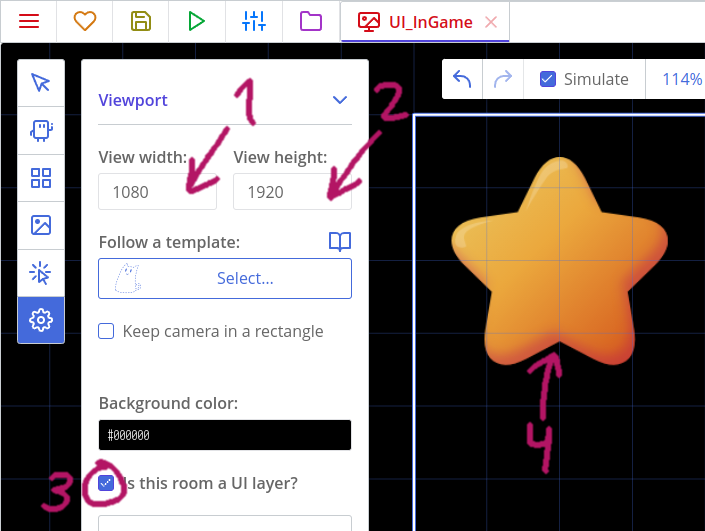
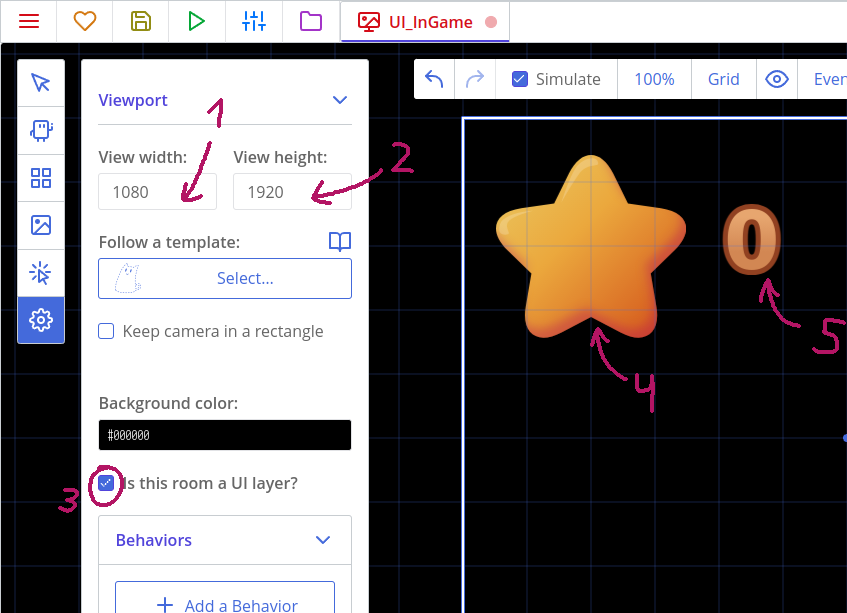
Address PR feedback

diff --git a/docs/tutorials/making-games-jettycat.md b/docs/tutorials/making-games-jettycat.md
@@ -640,35 +640,19 @@ Then, switch to the "Stroke" tab, and activate it. Set stroke's color as dark br
 
 ![Setting stroke's properties in ct.js text style](./../images/tutorials/tutJettyCat_26.png)
 
-We can save the style now. After that, we will need a new template that will display a star icon and a score counter.
+We can save the style now. After that, we will need two new templates that will display a star icon and a score counter.
 
-Create a new template and call it `StarCounter`. As its texture, we will reuse our `Star` texture. In its Creation event code, put the following snippet:
+Create a new template and call it `StarCounter`. As its texture, we will reuse our `Star` texture. 
 
-::: code-tabs#tutorial
-@tab JavaScript
-```js
-this.label = new PIXI.Text('0', styles.get('Orange'));
-this.label.x = 130;
-this.label.y = -60;
-this.addChild(this.label);
-```
-@tab CoffeeScript
-```coffee
-style = styles.get 'Orange'
-@label = new PIXI.Text '0', style
-@label.x = 130
-@label.y = -60
-@addChild @label
-```
-:::
+Now make another template called `StarCounterLabel`. This will show the score value next to the StarCounter copy. Now switch it from being an animated sprite to a text.
 
-This code is sorcery made in Pixi.js' API. Pixi.js is the graphics framework ct.js is built upon, and when we need to display something beyond copies and backgrounds, we will use their API. Here, `new PIXI.Text` creates a new text label. Its first argument is a string that will be displayed: we have 0 score points at room start, and thus will write `'0'` as an initial text. The second argument is a text style — we load it from our created style `'Orange'`.
+![Switch StarCounterLabel to be a text](./../images/tutorials/tutJettyCat_16_2.png)
 
-By writing `this.label = new Pixi.Text(…)`, we instantly remember the reference to the created label and save it as a copy's parameter `this.label`. We then position it by writing `this.label.x = 130;` and `this.label.y = -60`, but we are doing it relative to the copy. The copy `StarCounter` itself is more a container we use to display our text, though it still displays an icon. The line `this.addChild(this.label)` finally puts the created text label into the copy.
+Once you switch it to a text you can click on the ghostly cat icon and now you can choose between your styles. Select the Orange style you made.
 
-We need to update the text label at each frame. In the Frame end event, put the line `this.label.text = rooms.current.score;`.
+We need to update the text label at each frame. In the Frame end event, put the line `this.text = rooms.current.score;`. `this.text` is a property that lets us edit the label of a text copy easily, now that we switched it to a Text. You can also set the default text of this template in the right sidebar so it doesn't say `<Empty>` when we put it in the room.
 
-Finally, let's create a room for this counter and put this room inside the main one. Create a new room, and call it `UI_InGame`. Then, set its view size to 1080x1920 to match the main room's viewport, mark it as a UI layer, and put a counter's copy in the top-left corner:
+Finally, let's create a room for this counter and label and put this room inside the main one. Create a new room, and call it `UI_InGame`. Then, set its view size to 1080x1920 to match the main room's viewport, mark it as a UI layer, and put a counter's copy and label in the top-left corner:
 
 ![Creating a UI layer in ct.js](./../images/tutorials/tutJettyCat_27.png)
 
@@ -804,7 +788,7 @@ The final step is making a score screen that will be displayed after a player lo
 
 Create a template with a texture `OhNo`. It won't have any logic.
 
-The other one, `EndGame_ScoreCounter`, won't have any texture at all. Instead, it will display a text label through code. It will also remember and display the player's high score. Put this code to its Creation event:
+The other one, `EndGame_ScoreCounter`, will be a text instead of a sprite, just like our other score label. Change it to a Text and select the Orange style. It will also remember and display the player's high score. Put this code to its Creation event:
 
 ::: code-tabs#tutorial
 @tab JavaScript
@@ -817,9 +801,8 @@ if (!('JettyCat_HighScore' in localStorage)) {
 
 var scoreText = 'Your score: ' + rooms.current.score + '\nHighscore: ' + localStorage['JettyCat_HighScore'];
 
-this.label = new PIXI.Text(scoreText, styles.get('Orange'));
-this.label.anchor.x = this.label.anchor.y = 0.5;
-this.addChild(this.label);
+this.text = scoreText;
+this.anchor.x = this.anchor.y = 0.5;
 ```
 @tab CoffeeScript
 ```coffee
@@ -831,9 +814,8 @@ else if localStorage['JettyCat_HighScore'] < rooms.current.score
 scoreText = 'Your score: ' + rooms.current.score + '\nHighscore: ' + localStorage['JettyCat_HighScore']
 style = styles.get 'Orange'
 
-@label = new PIXI.Text scoreText, style
-@label.anchor.x = @label.anchor.y = 0.5
-@addChild @label
+@text = scoreText
+@anchor.x = @anchor.y = 0.5
 ```
 :::
 
@@ -855,11 +837,13 @@ var scoreText = 'Your score: ' + rooms.current.score + '\nHighscore: ' + localSt
 scoreText = 'Your score: ' + rooms.current.score + '\nHighscore: ' + localStorage['JettyCat_HighScore']
 ```
 :::
-saves a string to a temporary variable. Everything defined with the `var` keyword exists for only one frame and in one event. Though it doesn't serve much purpose, it allows to write cleaner code and reuse temporary variables. The combination `\n` tells that there will be a line break there. By using the `+` operator, we join our strings with the current score and the saved one. Lastly, we create a new text label and set its text to the created variable's value (by using it as an argument in `new PIXI.Text(scoreText, styles.get('Orange'));`).
+saves a string to a temporary variable. Everything defined with the `var` keyword exists for only one frame and in one event. Though it doesn't serve much purpose, it allows to write cleaner code and reuse temporary variables. The combination `\n` tells that there will be a line break there. By using the `+` operator, we join our strings with the current score and the saved one. Lastly, we set the display text to the created variable's value and use anchor properties to make sure the text centers itself once the game runs.
 
 Now, create a room called `UI_OhNo` with the created templates.
 
 ![Setting a starting room in ct.js](./../images/tutorials/tutJettyCat_31.png)
+
+Place the EndGame_ScoreCounter template where the x is. It will look off in the preview but remember we center the text once the label shows up so it should look centered once in game.
 
 The last thing we need is creating this room when the cat hits an obstacle and removing the UI layer with the pause button so the user cannot pause while on the game over screen. Open the template `PotatoCat` and go to the Destruction event. Add this code right after the line with `camera.follow = false;`:
 
@@ -915,4 +899,4 @@ Try changing this stuff to train yourself in coding:
 * Change the cat's movement so that it is more close to what happens in Flappy Bird: make the cat fly upwards abruptly when a player taps the screen, but do nothing if they then press the screen continuously.
 * Make rotating tubes to make the game more challenging.
 * Add a life counter, and allow a player to take 3 hits before losing.
-* Add sounds! Visit sound documentation inside your editor's docs for modules on how to play sounds in your game.
+* Add sounds! [Visit sound documentation on how to play sounds in your game](./../sounds.md).
